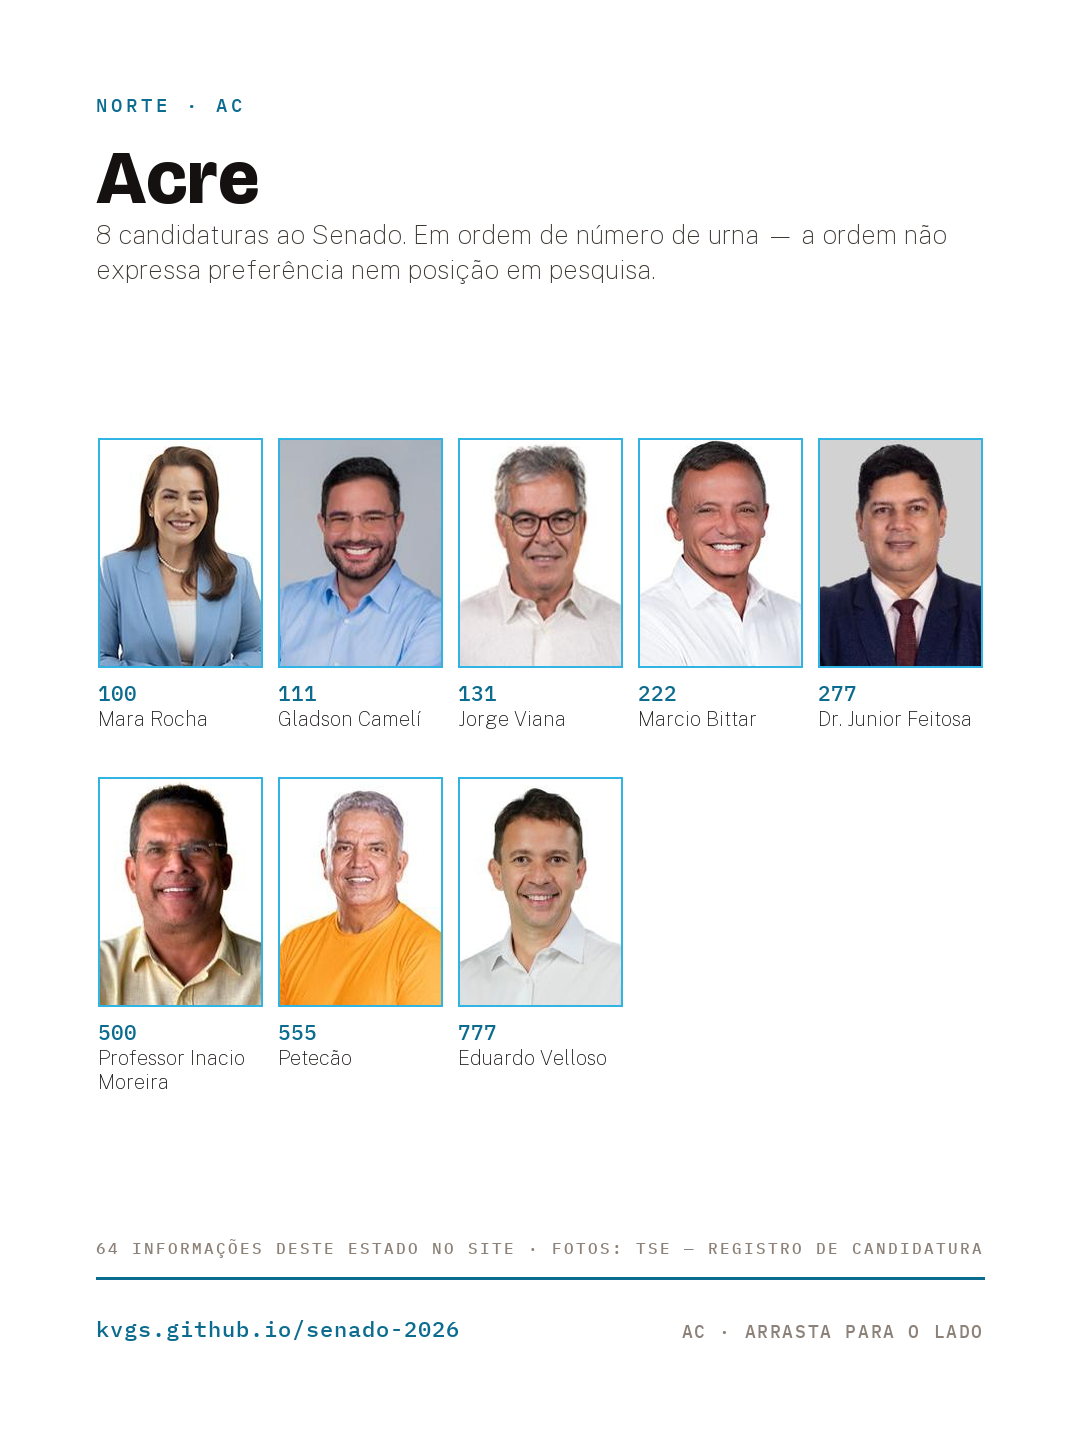
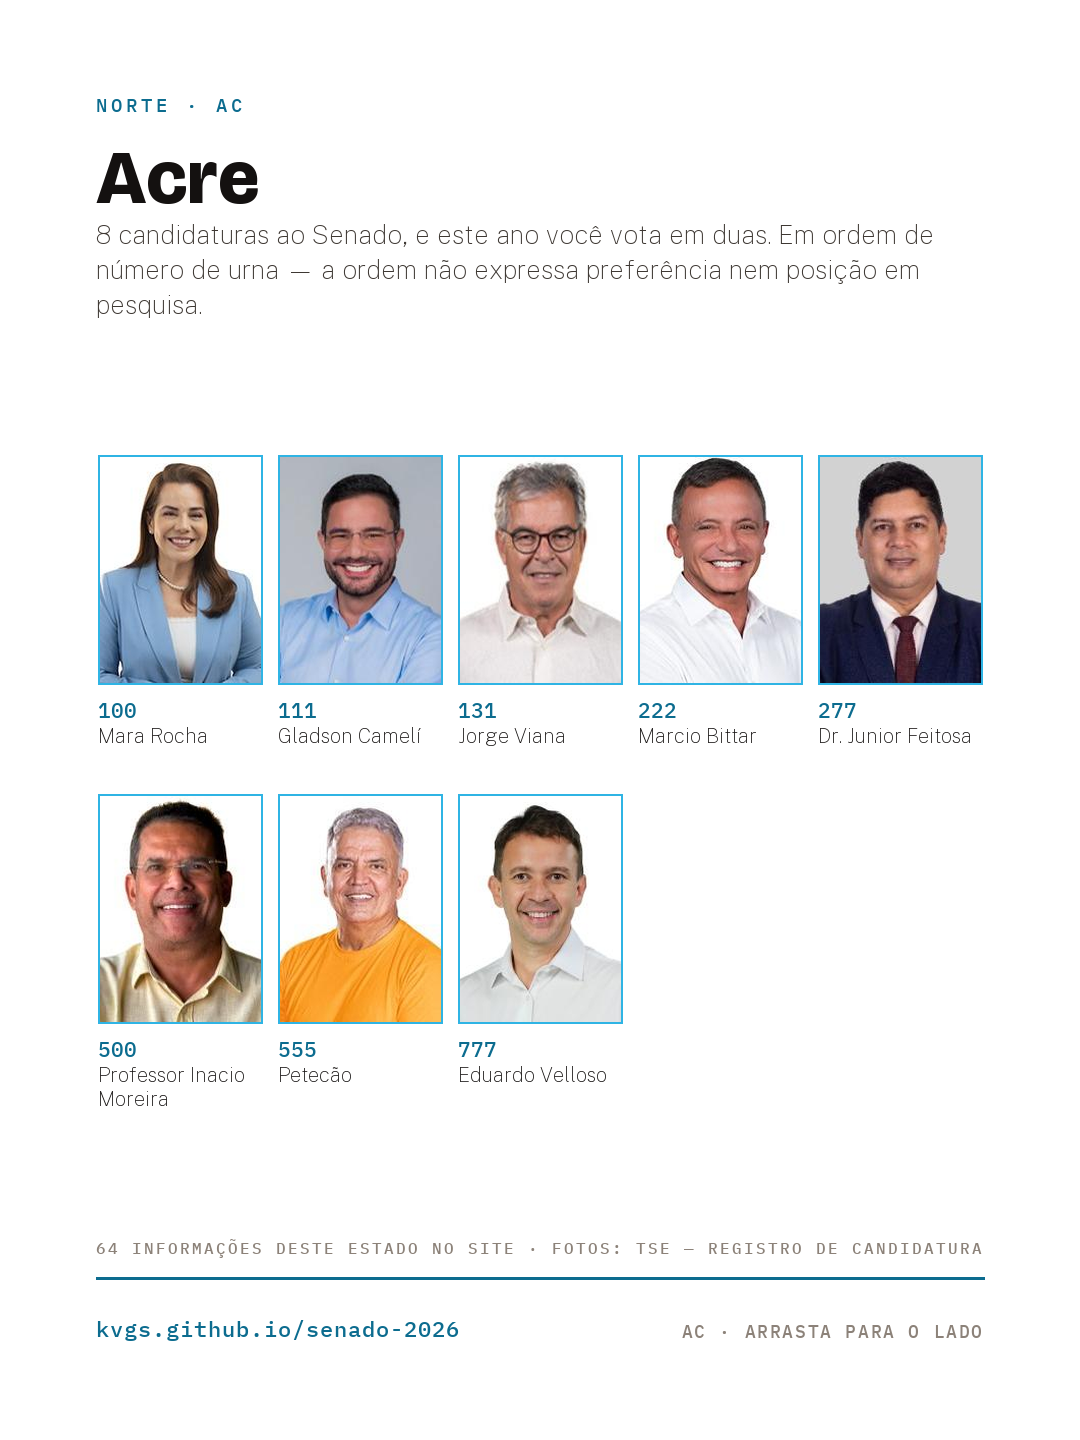
Capa clara: "Conheça as candidaturas do Norte", com a lista dos estados
A capa escura brigava com a grade de rostos que vem logo depois. Agora ela e
bege, como o slide do convite: no meio ficam os estados, em branco. O carrossel
passa a ter comeco, corpo e fim sem nenhuma palavra dizendo isso.

E ela ganhou o que faltava: os sete estados com a contagem de cada um. Quem abre
o post ja sabe se o estado dele esta ali antes de deslizar sete vezes.

A frase "este ano voce vota em duas" tambem desceu para o subtitulo de CADA
estado. Ela morava so na capa, e e a informacao que muda o jeito de olhar para
uma grade de rostos — quem entra pelo meio do carrossel precisava dela tanto
quanto quem entra pela capa.

--sem-capa fica disponivel para abrir direto na grade. A numeracao se ajusta nos
dois casos: com capa os estados comecam no 2, sem capa o primeiro estado E o
slide 1. Antes disso a capa e o Acre disputavam o "1-" e o explorador de
arquivos mostraria os dois no mesmo lugar da ordem.

diff --git a/gerar_artes_regiao.py b/gerar_artes_regiao.py
@@ -119,8 +119,9 @@ def arte_estado(d: dict, e: dict, i: int):
     t.espaco(14)
     t.texto(e["nome"], f("display", 76), TINTA, entre=1.05, larg=900)
     t.espaco(8)
-    t.texto(f"{len(e['gente'])} candidaturas ao Senado. Em ordem de número de urna — "
-            f"a ordem não expressa preferência nem posição em pesquisa.",
+    t.texto(f"{len(e['gente'])} candidaturas ao Senado, e este ano você vota em duas. "
+            f"Em ordem de número de urna — a ordem não expressa preferência nem "
+            f"posição em pesquisa.",
             f("corpo", 26), TINTA2, entre=1.38, larg=880)
     t.espaco(40)
 
@@ -160,39 +161,56 @@ def arte_estado(d: dict, e: dict, i: int):
     t.salvar(f"{pasta_da_regiao(d['regiao'])}/{i}-{sem_acento(e['nome']).lower().replace(' ', '-')}.png")
 
 
-def arte_capa(d: dict):
-    t = Tela(TINTA, 96)
-    t.y = 118
-    t.mono("ELEIÇÕES 2026 · SENADO FEDERAL", f("mono", 20), CIANO, espacamento=4)
-    t.espaco(30)
-    t.texto("Você conhece os candidatos ao Senado?",
-            f("display", 84), PAPEL, entre=1.08, larg=890)
-    t.espaco(30)
-    # Todas as cinco regioes levam "do" ("do Norte", "do Centro-Oeste"): o
-    # condicional que estava aqui escolhia entre "do" e "do".
+def arte_capa(d: dict, i: int):
+    """Capa clara, para nao brigar com a grade de rostos que vem logo depois.
+
+    O fundo bege fecha o carrossel com o slide do convite, que tambem e bege: no
+    meio ficam os estados, em branco. Assim a sequencia tem comeco, corpo e fim
+    sem precisar de nenhuma palavra dizendo isso.
+    """
+    t = Tela(PAPEL2, 96)
+    t.y = 100
+    t.mono(f"ELEIÇÕES 2026 · SENADO FEDERAL · {d['regiao'].upper()}",
+           f("mono", 20), CIANO_FUNDO, espacamento=4)
+    t.espaco(20)
+    t.texto(f"Conheça as candidaturas do {d['regiao']}",
+            f("display", 86), TINTA, entre=1.06, larg=890)
+    t.espaco(24)
     t.texto(f"São {d['total']} candidaturas nos {len(d['estados'])} estados "
             f"do {d['regiao']} — e este ano você vota em duas.",
-            f("corpo", 38), SOBRE_ESCURO, entre=1.36, larg=850)
+            f("corpo", 36), TINTA2, entre=1.38, larg=860)
 
-    fnum = f("display", 260)
-    fc = f("corpo", 34)
+    fnum = f("display", 230)
+    fc = f("corpo", 32)
     frase = ("Nos próximos slides, todas elas: foto, número de urna e nome, "
              "estado por estado.")
     linhas = t.quebra(frase, fc, 850)
-    alto_baixo = 2 + 44 + len(linhas) * int(fc.size * 1.42)
-    fim = t.base_do_rodape() - 66 - alto_baixo
-    y = t.y + max(0, (fim - t.y - int(fnum.size * 0.9)) // 2)
-    t.d.text((96, y), str(d["total"]), font=fnum, fill=CIANO)
+    alto_baixo = 2 + 42 + len(linhas) * int(fc.size * 1.42)
+    fim = t.base_do_rodape() - 62 - alto_baixo
+
+    # O numero e a lista dos estados dividem a faixa livre: o numero da a escala,
+    # e os nomes dizem de quais estados se trata, que e o que a pessoa procura.
+    fest = f("corpo", 30)
+    nomes = " · ".join(f"{e['nome']} {len(e['gente'])}" for e in d["estados"])
+    linhas_est = t.quebra(nomes, fest, 860)
+    alto_bloco = int(fnum.size * 0.9) + 26 + len(linhas_est) * int(fest.size * 1.4)
+    y = t.y + max(0, (fim - t.y - alto_bloco) // 2)
+
+    t.d.text((96, y), str(d["total"]), font=fnum, fill=CIANO_FUNDO)
     larg_n = t.d.textlength(str(d["total"]), font=fnum)
-    t.d.text((96 + larg_n + 26, y + 120), d["regiao"].upper(),
-             font=f("mono", 34), fill=APAGADO)
+    t.d.text((96 + larg_n + 24, y + 104), "CANDIDATURAS",
+             font=f("mono", 30), fill=APAGADO)
+    t.y = y + int(fnum.size * 0.9) + 26
+    for ln in linhas_est:
+        t.d.text((96, t.y), ln, font=fest, fill=TINTA2)
+        t.y += int(fest.size * 1.4)
 
     t.y = fim
-    t.d.rectangle([t.m, t.y, L - t.m, t.y + 2], fill=CIANO)
-    t.espaco(44)
-    t.texto(frase, fc, PAPEL, entre=1.42, larg=850)
-    t.rodape("kvgs.github.io/senado-2026", "ARRASTA PARA O LADO", CIANO, APAGADO)
-    t.salvar(f"{pasta_da_regiao(d['regiao'])}/1-capa.png")
+    t.d.rectangle([t.m, t.y, L - t.m, t.y + 2], fill=CIANO_FUNDO)
+    t.espaco(42)
+    t.texto(frase, fc, TINTA, entre=1.42, larg=850)
+    t.rodape("kvgs.github.io/senado-2026", "ARRASTA PARA O LADO", CIANO_FUNDO, APAGADO)
+    t.salvar(f"{pasta_da_regiao(d['regiao'])}/{i}-capa.png")
 
 
 def arte_comente(d: dict, i: int):
@@ -243,6 +261,8 @@ def main() -> None:
     ap = argparse.ArgumentParser()
     ap.add_argument("--regiao", required=True)
     ap.add_argument("--uf", help="gera so o slide deste estado, para conferir")
+    ap.add_argument("--sem-capa", action="store_true", dest="sem_capa",
+                    help="abre o carrossel direto na primeira grade de rostos")
     a = ap.parse_args()
 
     d = medir(a.regiao)
@@ -253,12 +273,16 @@ def main() -> None:
     print()
     if a.uf:
         e = next(x for x in d["estados"] if x["uf"] == a.uf.upper())
-        arte_estado(d, e, d["estados"].index(e) + 2)
+        arte_estado(d, e, d["estados"].index(e) + 1)
         return
-    arte_capa(d)
-    for k, e in enumerate(d["estados"]):
-        arte_estado(d, e, k + 2)
-    arte_comente(d, len(d["estados"]) + 2)
+    # A numeracao segue a ordem de postagem. Com --capa ela ocupa o 1 e os
+    # estados comecam no 2; sem ela, o primeiro estado E o primeiro slide.
+    n = 1
+    if not a.sem_capa:
+        arte_capa(d, n); n += 1
+    for e in d["estados"]:
+        arte_estado(d, e, n); n += 1
+    arte_comente(d, n)
 
 
 if __name__ == "__main__":

diff --git a/artes-instagram/5-norte-quem-sao/LEGENDA.md b/artes-instagram/5-norte-quem-sao/LEGENDA.md
@@ -1,11 +1,13 @@
 # Você conhece os candidatos ao Senado? — Norte
 
-Nove slides: capa, os sete estados em ordem alfabética, e o convite.
+Nove slides: capa clara, os sete estados em ordem alfabética, e o convite.
+A capa e o convite são bege; os estados, brancos — o carrossel tem começo,
+corpo e fim sem precisar de palavra dizendo isso.
 Fotos, número de urna e nome, em ordem de número de urna.
 
 ---
 
-**Você conhece os candidatos ao Senado?**
+**Conheça as candidaturas do Norte.**
 
 São **74 candidaturas nos 7 estados do Norte** — e este ano você vota em duas.
 
@@ -45,3 +47,4 @@ Fotos: TSE — foto de registro de candidatura.
   e rosto ampliado fica borrado.
 - **Nome nunca é cortado.** Se não couber em duas linhas, o corpo diminui.
 - Cada slide traz quantas informações daquele estado já estão no site.
+- `--sem-capa` gera o carrossel abrindo direto na primeira grade de rostos.
